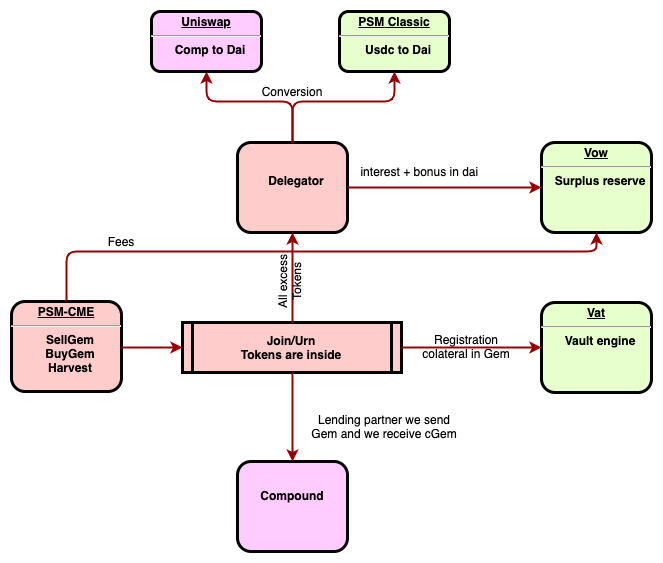
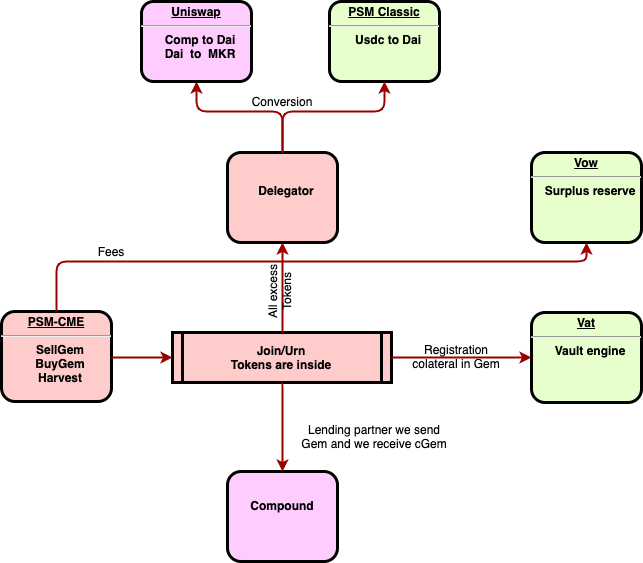
changed specification

Changed region(s): [[0.0, 0.0, 1.0, 1.0]]

diff --git a/MIP32/mip32.md b/MIP32/mip32.md
@@ -59,7 +59,7 @@ The leverage is also motivated by a better outcome and a better diversification.
 PSM Mixed Exposure is articulated around 3 components :
 - The PSM (entry point)
 - The Join (urn)
-- The delegator (token manipulation)
+- The excess delegator (excess token conversion)
 
 ### MIP32a : The Psm
 
@@ -87,50 +87,58 @@ Take the dai and convert it to usdc via the `lending join` (Dai/Usdc).
 return the Usdc.
 
 `harvest` calls `harvest()` from both join (cDai and cUsdc).
-It is triggered automatically at any sell or buy and can be processed manually by anyone too.
+It can be processed by anyone.
+
+**extra specification:**  
+The same level of debt is maintain for both position ( the leverage urn and the gem urn).
 
 ![dss-psm-cme](dss-psm-cme.png?raw=true)
 
 ### MIP32b : The Lending Join 
 
-It is a classic maker join with the conversion from and to the lender.
-There is an additional method `harvest()` accessible by an allowlist - the PSM -.
-The collateral is register and allow borrowing on it, but the PSM lends it to compound.
+It is a classic maker join with on top the conversion from and to the lender.
+There is an additional method `harvest()` behind an allowlist - the PSM -.
+The collateral is register and allow borrowing on it exactly like a normal collateral, but the `lending join` lends it to compound.
 
 The join is an `auth-join` type accessible only by the PSM.
 
 the extra method 'harvest()' have 3 actions :
-- move the excess token to the delegator
+- move the excess token to the delegator.
 - move the bonus token to the delegator.
 - call the delegator.
 
 the join has one parameter the delegator. `excessDelegator`.
 
+**extra specification:**  
+to calculate the excess, we look at all authorized and de-authorized user to the join
+and we sum the ink and the gem to calculate the amount own by the join.  
+Then we subtract this amount from the lendler underlying collateral.
+
+
 ![lending-join](lending-join.png?raw=true)
 
 
-### MIP32c : The Delegator
+### MIP32c : The Burn Delegator
 
-The delegator has one method only accessible by an allowlist. - the join -
-this method does 3 actions:
-- convert the usdc to dai via the classic psm and send them to vow
-- convert token bonus to dai via uniswap and send them to vow  
-- send dai to vow.
+The Delegator is replaceable, its main purpose is to manage the token conversion and what we do with it.
 
-there is 5 parameters :
+This delegator has 4 methods:
+- `call` callback for the join.
+
+- `processUsdc` convert the usdc to dai via the psm.
+- `processComp` convert token bonus to dai via uniswap.  
+- `processDai`  convert dai to MKR via uniswap and burn the MKR.
+
+there is 6 parameters :
 - `psm` : psm address - can be changed
 - `route` : uniswap route address - can be changed
 
-- `psm_circuit_breaker` : to by pass the psm sell.
-
-- `auction_duration`: min time is sec between 2 uniswap swap
-- `max_sell_amount` : max amount by swap.
-
+- `bonus_auction_duration`: min time is sec between 2 uniswap swap
+- `max_bonus_auction_amount` : max comp amount by swap.
+- `dai_auction_duration`: min time is sec between 2 uniswap swap
+- `max_dai_auction_amount` : max dai amount by swap.
 
 ### Globaly
-
-We will also introduce on the PSM module - sell and buy - an auto circuit_break on odd block_number to allow the PSM to be 
-half operational to mitigate any breaking transaction from either the classic psm or uniswap via the return.
 
 
 ![dss-psm-cme](dss-psm-cme-global.png?raw=true)
@@ -146,7 +154,7 @@ Unit tested :
 
  [DssPsmCme.t.sol](https://github.com/alexisgayte/dss-psm-cme/blob/master/src/DssPsmCme.t.sol)
 
- [SellDelegator.t.sol](https://github.com/alexisgayte/dss-psm-cme/blob/master/src/SellDelegator.t.sol)
+ [BurnDelegator.t.sol](https://github.com/alexisgayte/dss-psm-cme/blob/master/src/BurnDelegator.t.sol)
 
  [join-lending-auth.t.sol](https://github.com/alexisgayte/dss-psm-cme/blob/master/src/join-lending-auth.t.sol)
 
